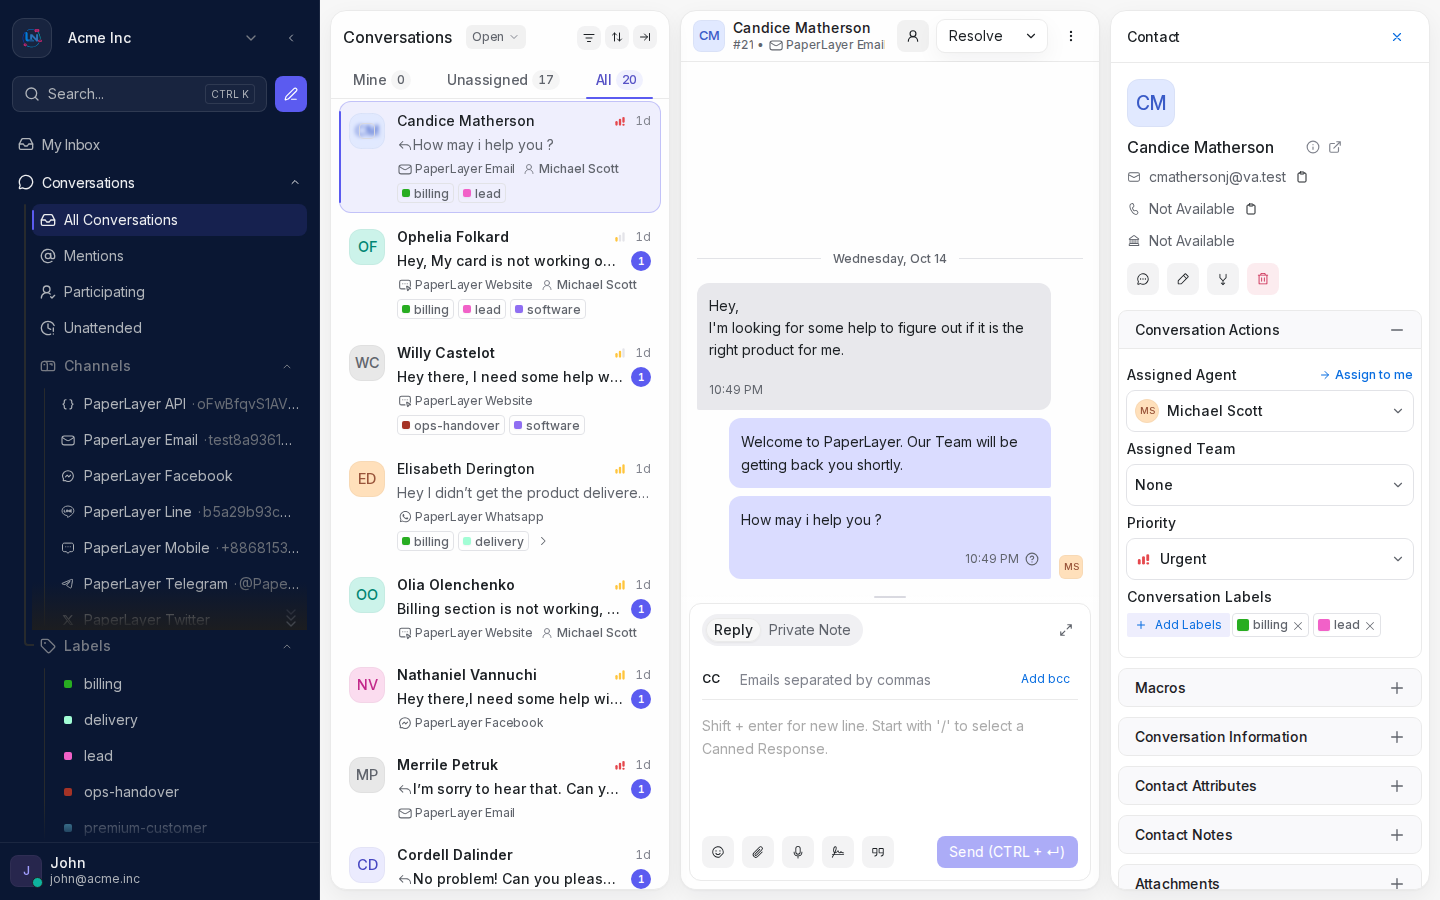
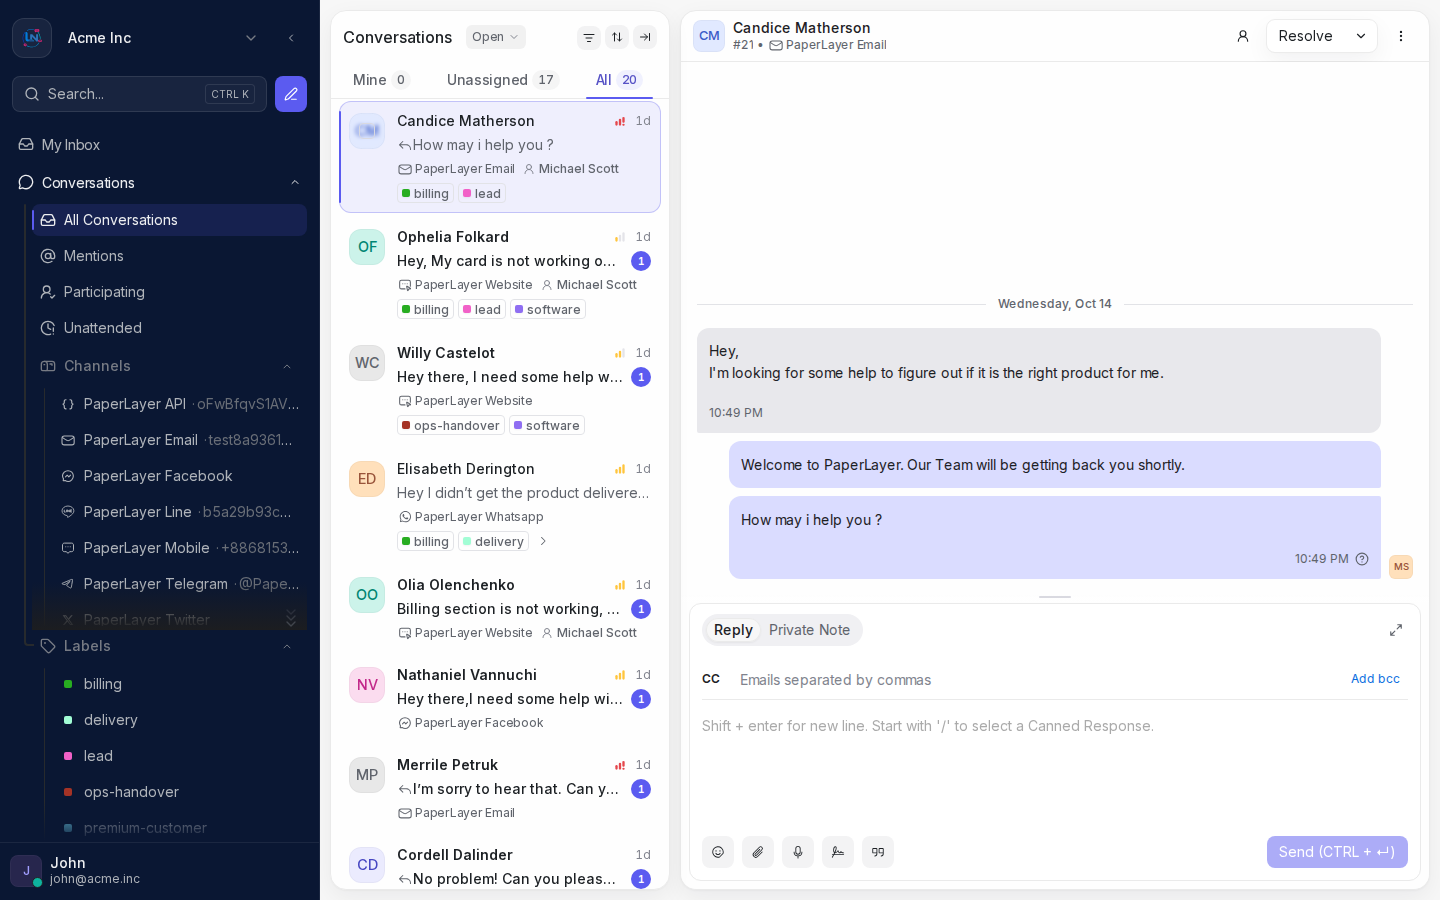
fix(marketing): the hero shows a legible product, and the header fits a tablet
THE HERO'S SCREENSHOT WAS TOO SMALL TO BE EVIDENCE. Sized to a tidy half of the
container it rendered about 460px wide, every label in a four-column agent
workspace turned to grey mush, and the one picture of the product on the site
said nothing about it. The text column is now fixed at 31rem and the figure is
given 68rem whatever is left, so it overruns its cell and is cut off by the
viewport: about three quarters of the capture at three quarters of its scale.
A too-wide block overflows at its inline-end edge, so it bleeds right in English
and left in Arabic with no rule of its own, and the section's `overflow-hidden`
keeps it off the document's scroll width.

THE ENGLISH HERO WAS SHOWING THE WRONG SCREEN. `conversation-open.png` was
byte-identical to `conversation-assignment.png` -- the contact panel open, under
a caption describing it closed -- because the capture's optional close click
silently did nothing when a previous run had left the panel open, and nothing
afterwards looked. Shots can now declare an `expect` state that must hold after
their clicks, the three conversation shots declare theirs, and the English
capture was retaken.

EVERY MARKETING PAGE HAD A HORIZONTAL SCROLLBAR ON A TABLET. The header showed
its full navigation row from 768px, where it does not fit: 52px of overflow on
every page, invisible to a gate that only looked at 390 and 1440. The row now
appears at 1024, the scrolling row covers the gap, and the gate has a tablet
[…]

diff --git a/tailwind.config.js b/tailwind.config.js
@@ -344,6 +344,12 @@ const tailwindConfig = {
         from: { opacity: 0, transform: 'translateY(1.25rem) scale(0.985)' },
         to: { opacity: 1, transform: 'translateY(0) scale(1)' },
       },
+      // The ring that leaves the hero's live dot. The dot itself does not move -- a second, absolutely
+      // positioned span expands out of it and fades -- so nothing reflows and the text beside it is still.
+      'live-ring': {
+        '0%': { opacity: 0.55, transform: 'scale(1)' },
+        '70%, 100%': { opacity: 0, transform: 'scale(2.6)' },
+      },
     },
     animation: {
       ...defaultTheme.animation,
@@ -357,6 +363,7 @@ const tailwindConfig = {
       'marquee-ltr': 'marquee-ltr 48s linear infinite',
       'marquee-rtl': 'marquee-rtl 48s linear infinite',
       'rise-in': 'rise-in 0.7s cubic-bezier(0.16, 1, 0.3, 1) both',
+      'live-ring': 'live-ring 2.2s cubic-bezier(0, 0, 0.2, 1) infinite',
     },
   },
   plugins: [

diff --git a/custom/app/services/marketing/page_enrichment.rb b/custom/app/services/marketing/page_enrichment.rb
@@ -9,8 +9,10 @@
 #
 # THE GUARANTEES, which are the whole point:
 #
-#   1. IT ONLY EVER ADDS. No existing section is modified, reordered or removed. The only write to
-#      `page.sections` is an insert.
+#   1. IT ONLY EVER ADDS, AND IT ONLY EVER FILLS A BLANK. No existing section is reordered or removed, and
+#      no field that holds anything is rewritten. The two writes to `page.sections` are an insert of a new
+#      section and setting a field that was empty -- which is how the hero, present on all 96 pages and
+#      never added by this mechanism, gets its screenshot.
 #   2. IT IS IDEMPOTENT. Each enrichment carries a stable `key` that is stored on the section it adds, so a
 #      second run finds its own work and skips it. Running it ten times and running it once are the same.
 #   3. IT PREFLIGHTS, AND NOTHING RUNS ON DEPLOY. `plan` performs no writes and returns exactly what
@@ -19,6 +21,9 @@
 #   4. AN IMAGE IS ATTACHED ONCE. Attachments are matched by filename on the page's own `marketing_images`,
 #      so re-running does not pile up duplicates of the same screenshot, and the section is pointed at the
 #      attachment's id -- which is what the renderers resolve.
+#   5. A BLANK FIELD IS REPAIRED, AND ONLY A BLANK ONE. If the section is already on the page but the
+#      attachment it pointed at has been purged, the next run re-attaches and re-points it. A field that
+#      holds anything is left exactly as the operator left it.
 #
 # WHAT IT DELIBERATELY DOES NOT PROMISE. It cannot tell "the operator deleted this on purpose" from "this
 # was never added": the only durable marker is the section's own key, and a deleted section takes its key
@@ -42,7 +47,13 @@ module Marketing::PageEnrichment
   #            which is the honest fallback: appended is wrong-ish, dropped is invisible.
   #   image    optional { file:, field: } -- `file` is a path under the repository, `field` the section
   #            field that should hold the resulting attachment id.
-  Enrichment = Struct.new(:key, :locale, :slug, :section, :after, :image, keyword_init: true)
+  #   fill     optional { type: } -- makes this a FILL rather than an insert: instead of adding a section,
+  #            it sets `image[:field]` on the FIRST section of that type, and ONLY IF THAT FIELD IS BLANK.
+  #            This exists for the hero, which is already on all 96 pages and needs a screenshot rather than
+  #            a new block. It is the one operation that touches a section the repository did not add, and
+  #            it is narrowed to the point where it cannot destroy anything: an operator who has already
+  #            chosen a hero image keeps it, and no other field is read or written.
+  Enrichment = Struct.new(:key, :locale, :slug, :section, :after, :image, :fill, keyword_init: true)
 
   # What one enrichment did or would do.
   Outcome = Struct.new(:key, :locale, :slug, :status, :detail, keyword_init: true)
@@ -88,33 +99,81 @@ module Marketing::PageEnrichment
       return outcome(enrichment, :missing_page, 'no page with that locale and slug') if page.nil?
 
       sections = Array(page.sections)
-      if sections.any? { |section| section['key'] == enrichment.key }
-        return outcome(enrichment, :present, 'already on the page')
-      end
+      index = existing_index(sections, enrichment)
+      return insert(page, sections, enrichment, commit: commit) if index == :absent
+      return outcome(enrichment, :missing_page, "no #{target_name(enrichment)} on the page") if index.nil?
 
+      fill_blanks(page, sections, index, enrichment, commit: commit)
+    end
+
+    # WHERE THIS ENRICHMENT'S SECTION IS, if it is on the page at all. An insert finds its own work by the
+    # `key` it stamped on it; a `fill` names a TYPE instead, because the hero it is for was never added by
+    # this mechanism and carries no key. Three answers: an index, `:absent` for an insert that has not run,
+    # and nil for a fill whose type is not on this page -- which is a problem to report, not a no-op.
+    def existing_index(sections, enrichment)
+      return sections.index { |section| section['type'] == enrichment.fill[:type].to_s } if enrichment.fill
+
+      sections.index { |section| section['key'] == enrichment.key } || :absent
+    end
+
+    def target_name(enrichment)
+      enrichment.fill ? "#{enrichment.fill[:type]} section" : 'section already on the page'
+    end
+
+    def insert(page, sections, enrichment, commit:)
       section = enrichment.section.deep_dup.merge('key' => enrichment.key)
       if enrichment.image
         attachment_id, note = resolve_image(page, enrichment.image, commit: commit)
-        return outcome(enrichment, :image_missing, note) if attachment_id.nil? && note
+        return outcome(enrichment, :image_missing, note) if note
+
         section[enrichment.image[:field].to_s] = attachment_id.to_s if attachment_id
       end
 
-      insert_at = position_for(sections, enrichment.after)
-      updated = sections.dup.insert(insert_at, section)
+      at = position_for(sections, enrichment.after)
+      write(page, sections.dup.insert(at, section), enrichment,
+            "inserted at #{at} of #{sections.length + 1}", commit: commit)
+    end
 
+    # THE SECTION IS ALREADY HERE, so nothing is inserted -- but a field on it that holds nothing is filled.
+    #
+    # WHY THAT IS NOT "REWRITING THE OPERATOR'S PAGE". It is the narrowest write there is: a blank field gets
+    # what the declaration says it should hold, and a field holding anything at all is left exactly as it
+    # was. The hero needs it because every page already has a hero and what it lacked was a screenshot, not a
+    # section. A showcase needs it because purging an attachment in Super Admin leaves `attachment_id`
+    # pointing at nothing and the figure then renders as nothing at all -- the section quietly becomes a
+    # column of text captioned about a picture nobody can see, and no amount of re-running would repair it.
+    def fill_blanks(page, sections, index, enrichment, commit:)
+      name = target_name(enrichment)
+      values, note = blank_values(page, sections[index], enrichment, commit: commit)
+      return outcome(enrichment, :image_missing, note) if note
+      return outcome(enrichment, :present, "#{name} needs nothing") if values.empty?
+
+      updated = sections.deep_dup
+      values.each { |key, value| updated[index][key] = value }
+      write(page, updated, enrichment, "filled #{values.keys.sort.join(', ')} on the #{name}", commit: commit)
+    end
+
+    # Every field this declaration would set that the section leaves blank, the image among them.
+    def blank_values(page, section, enrichment, commit:)
+      values = enrichment.section.to_h.select { |key, _| section[key].blank? }
+      field = enrichment.image.to_h[:field].to_s
+      return [values, nil] if field.blank? || section[field].present?
+
+      attachment_id, note = resolve_image(page, enrichment.image, commit: commit)
+      values[field] = attachment_id.to_s if attachment_id
+      [values, note]
+    end
+
+    # The one place sections are validated and saved, so an insert and a fill cannot disagree about either.
+    def write(page, updated, enrichment, done, commit:)
       errors = Marketing::SectionSchema.errors(updated)
       return outcome(enrichment, :invalid, errors.join('; ')) if errors.any?
-
-      unless commit
-        return outcome(enrichment, :would_add, "insert at #{insert_at} of #{updated.length}")
-      end
+      return outcome(enrichment, :would_add, done) unless commit
 
       page.sections = updated
-      if page.save
-        outcome(enrichment, :added, "inserted at #{insert_at} of #{page.sections.length}")
-      else
-        outcome(enrichment, :refused, page.errors.full_messages.join(', '))
-      end
+      return outcome(enrichment, :refused, page.errors.full_messages.join(', ')) unless page.save
+
+      outcome(enrichment, :added, done)
     end
 
     # Where the section goes. `after` names a TYPE rather than an index because an operator's page has
@@ -135,14 +194,16 @@ module Marketing::PageEnrichment
 
       existing = page.marketing_images.find { |a| a.blob.filename.to_s == path.basename.to_s }
       return [existing.id, nil] if existing
-      return [nil, nil] unless commit
+      # A PLAN MUST NOT REPORT "NOTHING TO DO" FOR AN IMAGE IT WOULD ATTACH. Nothing is written in plan mode,
+      # so there is no id yet; `:pending` is a truthy stand-in that makes the field show up in the plan's
+      # report and is never persisted, because `write` does not save when `commit` is false.
+      return [:pending, nil] unless commit
 
       attachment = Marketing::ImageUpload.new(page: page).attach!(io: path.open('rb'), filename: path.basename.to_s)
       [attachment.id, nil]
     rescue StandardError => e
       [nil, "image refused: #{e.message}"]
     end
-
 
     def outcome(enrichment, status, detail)
       Outcome.new(key: enrichment.key, locale: enrichment.locale, slug: enrichment.slug,

diff --git a/custom/db/marketing/enrichments.rb b/custom/db/marketing/enrichments.rb
@@ -115,6 +115,11 @@ showcases = {
   }
 }
 
+HERO_ALT = {
+  'en' => 'The Lynomia Chat agent workspace: the channel list on one side, a customer conversation open in the middle, and the contact panel beside it.',
+  'ar' => 'مساحة عمل وكيل الدعم في لينوميا شات: قائمة القنوات في جانب، ومحادثة عميل مفتوحة في الوسط، ولوحة جهة الاتصال بجانبها.'
+}.freeze
+
 enrichments = []
 
 %w[en ar].each do |locale|
@@ -142,6 +147,18 @@ enrichments = []
       }
     )
   end
+end
+
+%w[en ar].each do |locale|
+  # THE HERO'S SCREENSHOT IS A FILL, NOT AN INSERT: every page already has a hero, and what it needed was a
+  # picture of the product in place of the hand-built panel the template used to draw. It is written only
+  # when the hero carries no image, so an operator who has chosen their own keeps it.
+  enrichments << Enrichment.new(
+    key: "home.hero-shot.#{locale}", locale: locale, slug: 'home',
+    fill: { type: 'hero' },
+    image: { file: "docs/screenshots/sources/marketing/#{locale}/conversation-open.png", field: 'attachment_id' },
+    section: { 'alt' => HERO_ALT[locale] }
+  )
 end
 
 enrichments

diff --git a/custom/app/services/marketing/section_schema.rb b/custom/app/services/marketing/section_schema.rb
@@ -32,7 +32,11 @@ module Marketing::SectionSchema
     # it on the one coloured block the page is allowed, which is how the headline gets a focal point without
     # the operator writing markup -- and the heading stays one plain, escaped string.
     'hero' => {
-      fields: %w[kicker highlight primary_label primary_target secondary_label secondary_target]
+      # `attachment_id`/`alt`: the hero's product screenshot. It replaced a hand-built panel of invented
+      # customers -- see the partial. With no attachment the hero renders as text alone rather than falling
+      # back to a drawing of a dashboard.
+      fields: %w[kicker highlight primary_label primary_target secondary_label secondary_target
+                 attachment_id alt]
     },
     # A heading and a paragraph -- the plainest section there is, and the one the About page opens with.
     'prose' => { fields: %w[heading body] },
